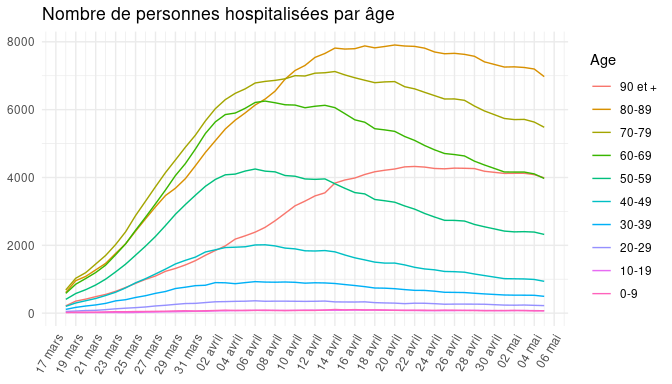
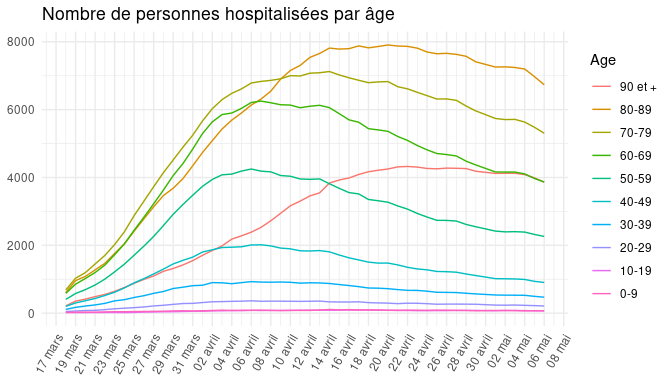
maj 7 mai 2020

diff --git a/README.md b/README.md
@@ -33,6 +33,28 @@ output:
     -   [Réanimation par département](#réanimation-par-département-1)
     -   [Décès par âge](#décès-par-âge)
 
+-   [Données](#données)
+-   [Cadrage](#cadrage)
+    -   [Pyramides des âges](#pyramides-des-âges)
+    -   [Taux par âge](#taux-par-âge)
+-   [Evolution des stocks](#evolution-des-stocks)
+    -   [Décès cumulés](#décès-cumulés)
+    -   [Réanimation et
+        hospitalisation](#réanimation-et-hospitalisation)
+    -   [Réanimation par région](#réanimation-par-région)
+    -   [Réanimation par département](#réanimation-par-département)
+    -   [Décès cumulés par âge](#décès-cumulés-par-âge)
+    -   [Réanimation par âge](#réanimation-par-âge)
+    -   [Hospitalisations par âge](#hospitalisations-par-âge)
+-   [Evolutions des flux](#evolutions-des-flux)
+    -   [Nouveaux cas (réa/hospi/dc/rad)](#nouveaux-cas-réahospidcrad)
+    -   [Excédent de sorties de
+        l’hôpital](#excédent-de-sorties-de-lhôpital)
+    -   [Décès par région](#décès-par-région)
+    -   [Décès par département](#décès-par-département)
+    -   [Réanimation par département](#réanimation-par-département-1)
+    -   [Décès par âge](#décès-par-âge)
+
 Données
 =======
 
@@ -64,14 +86,14 @@ mortalité à partir des décès cumulés au dernier jour d’observation.
 |:--------|---------------------:|-----------------:|---------------:|
 | 0-9     |                  1.02|              0.34|            0.03|
 | 10-19   |                  1.00|              0.26|            0.04|
-| 20-29   |                  4.74|              0.80|            0.23|
-| 30-39   |                 11.02|              2.82|            0.82|
-| 40-49   |                 23.10|              6.76|            2.33|
-| 50-59   |                 47.42|             17.20|            8.15|
-| 60-69   |                 77.54|             29.00|           23.39|
-| 70-79   |                120.54|             33.25|           63.74|
-| 80-89   |                201.75|              8.88|          186.41|
-| 90 et + |                298.65|              1.86|          371.53|
+| 20-29   |                  4.74|              0.80|            0.24|
+| 30-39   |                 11.02|              2.82|            0.83|
+| 40-49   |                 23.10|              6.76|            2.35|
+| 50-59   |                 47.42|             17.20|            8.26|
+| 60-69   |                 77.54|             29.00|           23.71|
+| 70-79   |                120.54|             33.25|           64.51|
+| 80-89   |                201.75|              8.88|          187.98|
+| 90 et + |                298.65|              1.86|          376.36|
 
 Evolution des stocks
 ====================
